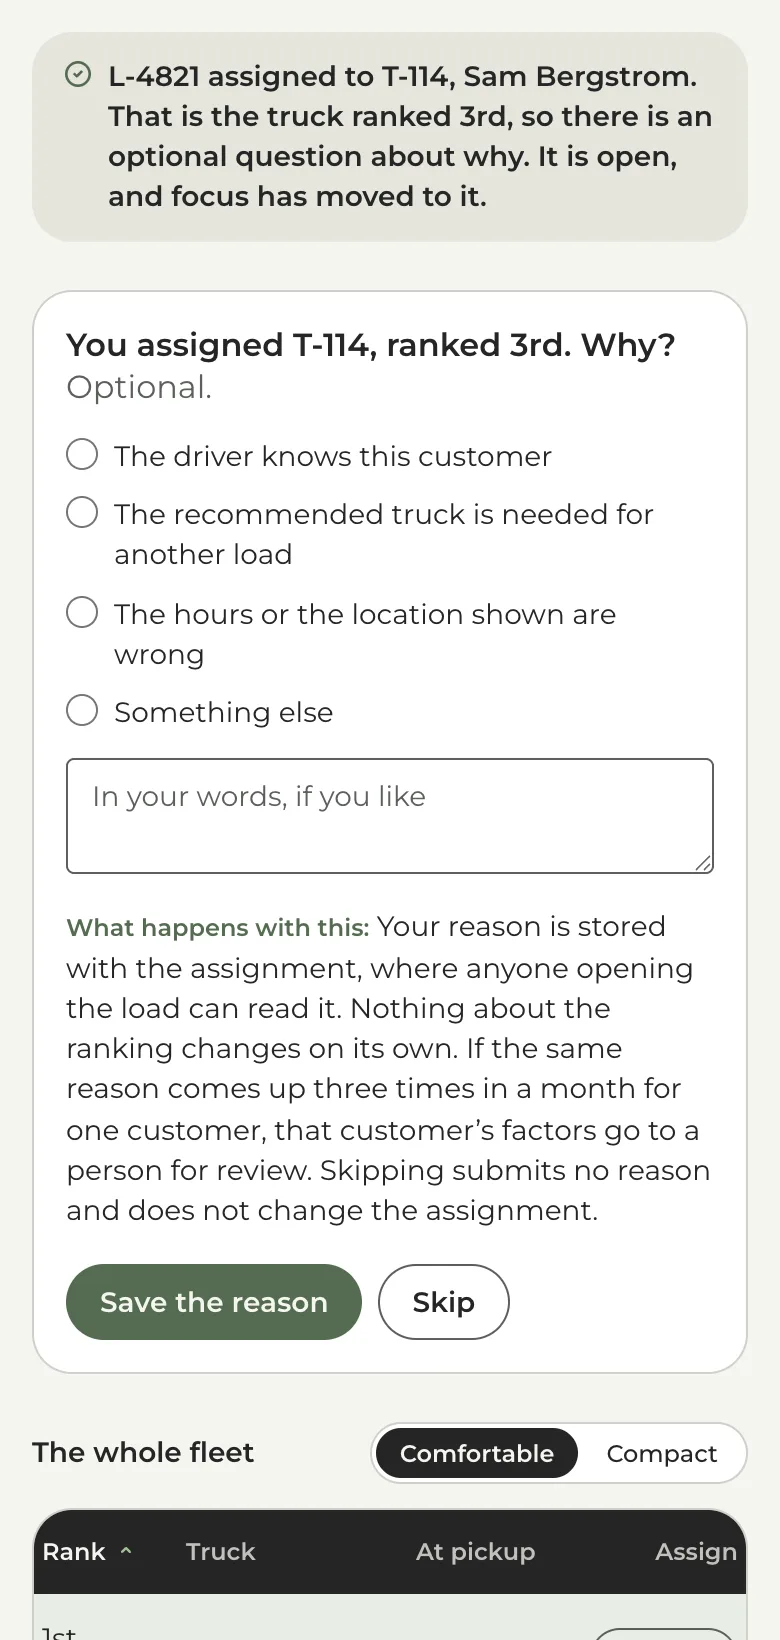
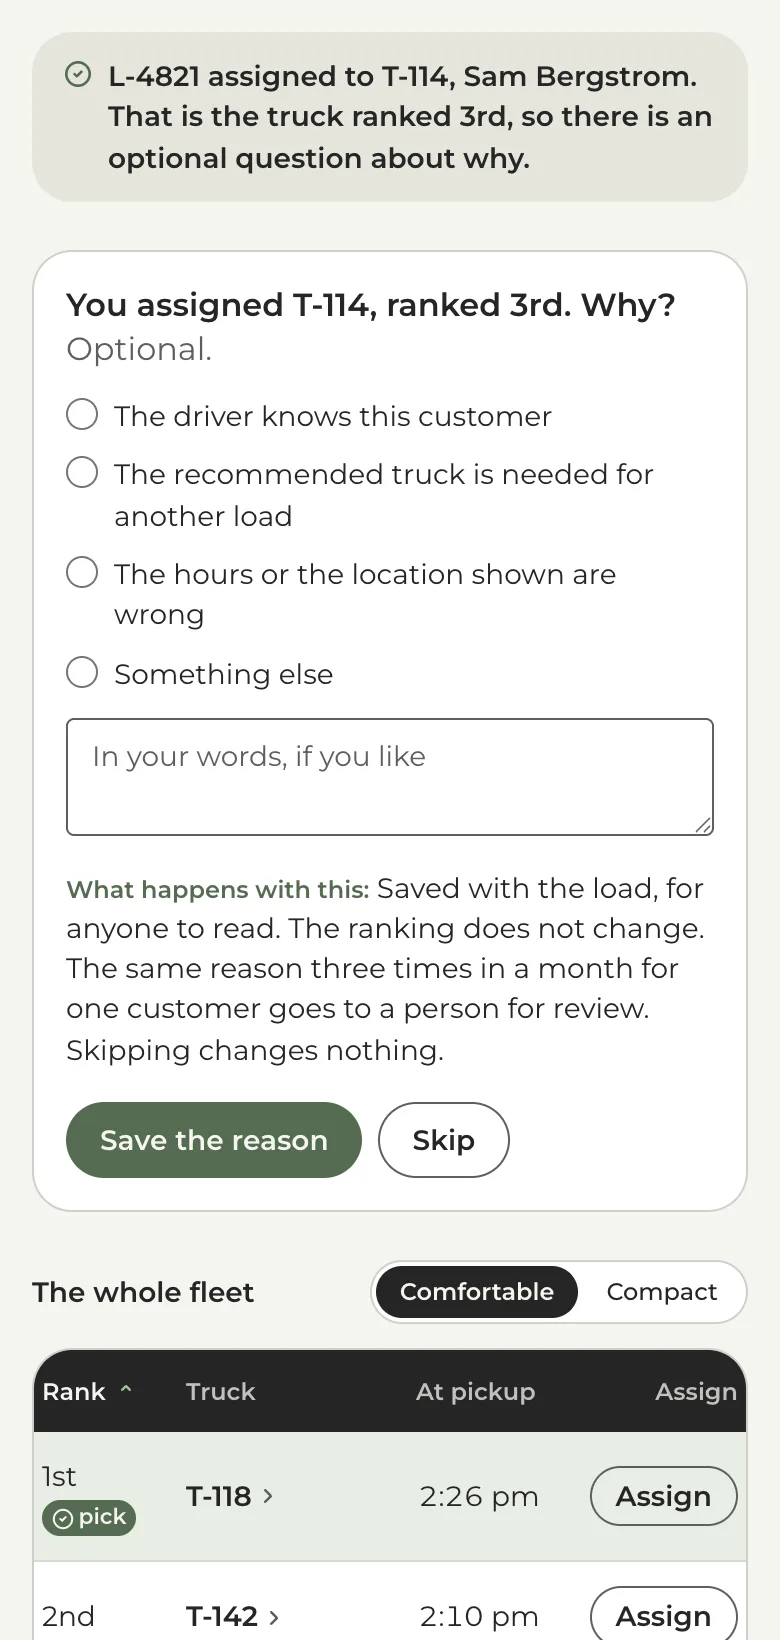
The override prompt says what happens to the answer in four short sentences
The "What happens with this" paragraph on the cockpit's override card
ran to fifty-seven words and read as a block. It now says the same
four things in thirty-five: saved with the load, the ranking does not
change, the same reason three times in a month goes to a person,
skipping changes nothing.

The three captures that show the card are re-run from the prototype:
override-after (decision 03's second frame, now 82px shorter, so its
height attribute moves with it), slide-override and slide-override-sm.
Cache-busters bumped on all three.

diff --git a/prototype/dispatch-cockpit.html b/prototype/dispatch-cockpit.html
@@ -398,8 +398,8 @@
             <figure class="ck-slide-fig">
               <div class="ck-slide-screen">
                 <picture>
-                  <source media="(max-width: 47.99rem)" srcset="../img/cockpit/slide-override-sm.webp?v=4" width="780" height="1640" />
-                  <img src="../img/cockpit/slide-override.webp?v=5" width="1360" height="1020" loading="lazy" decoding="async" alt="A card headed &ldquo;You assigned T-114, ranked 3rd. Why? Optional.&rdquo; with four reasons to choose from, a free-text box reading &ldquo;In your words, if you like&rdquo;, a paragraph headed &ldquo;What happens with this&rdquo;, and two buttons: Save the reason, and Skip." />
+                  <source media="(max-width: 47.99rem)" srcset="../img/cockpit/slide-override-sm.webp?v=5" width="780" height="1640" />
+                  <img src="../img/cockpit/slide-override.webp?v=6" width="1360" height="1020" loading="lazy" decoding="async" alt="A card headed &ldquo;You assigned T-114, ranked 3rd. Why? Optional.&rdquo; with four reasons to choose from, a free-text box reading &ldquo;In your words, if you like&rdquo;, a paragraph headed &ldquo;What happens with this&rdquo;, and two buttons: Save the reason, and Skip." />
                 </picture>
               </div>
               <figcaption>T&#8209;114 was ranked third. Assigning it took one press and nothing argued back. The question comes afterwards, is optional, and Skip is as easy as Save.</figcaption>
@@ -678,7 +678,7 @@
                 </li>
                 <li>
                   <div class="ckw-scroll">
-                    <img src="../img/cockpit/override-after.webp?v=4" width="2576" height="1128" alt="After an override: a status line reading that load L-4821 is assigned to T-114, the truck ranked 3rd, and an optional question below it offering three reasons, a free-text box, a note about what happens with the answer, and Save the reason and Skip buttons." />
+                    <img src="../img/cockpit/override-after.webp?v=5" width="2576" height="1046" alt="After an override: a status line reading that load L-4821 is assigned to T-114, the truck ranked 3rd, and an optional question below it offering three reasons, a free-text box, a note about what happens with the answer, and Save the reason and Skip buttons." />
                   </div>
                   <p class="ckw-frame-cap"><span>Then</span> The question, afterwards and optional. Undo takes the place of Assign on the row, so the choice is reversible while it is being explained.</p>
                 </li>

diff --git a/index.html b/index.html
@@ -482,7 +482,7 @@
                morph into. -->
           <a class="case-card case-card--prototype reveal" href="prototype/dispatch-cockpit.html" aria-label="Open the prototype: A dispatch cockpit that shows its work">
             <div class="case-thumb">
-              <img decoding="async" loading="lazy" src="img/cockpit/slide-override.webp?v=5" alt="The cockpit after the dispatcher overrides it: a card headed &ldquo;You assigned T-114, ranked 3rd. Why? Optional.&rdquo; with four reasons to choose from, a free-text box reading &ldquo;In your words, if you like&rdquo;, a paragraph headed &ldquo;What happens with this&rdquo;, and two buttons: Save the reason, and Skip." width="1360" height="1020"/>
+              <img decoding="async" loading="lazy" src="img/cockpit/slide-override.webp?v=6" alt="The cockpit after the dispatcher overrides it: a card headed &ldquo;You assigned T-114, ranked 3rd. Why? Optional.&rdquo; with four reasons to choose from, a free-text box reading &ldquo;In your words, if you like&rdquo;, a paragraph headed &ldquo;What happens with this&rdquo;, and two buttons: Save the reason, and Skip." width="1360" height="1020"/>
             </div>
             <div class="case-card-body">
               <h3>A dispatch cockpit that shows its work</h3>

diff --git a/prototype/dispatch-cockpit.js b/prototype/dispatch-cockpit.js
@@ -183,7 +183,7 @@
       'The recommended truck is needed for another load',
       'The hours or the location shown are wrong',
     ],
-    whatHappens: 'Your reason is stored with the assignment, where anyone opening the load can read it. Nothing about the ranking changes on its own. If the same reason comes up three times in a month for one customer, that customer’s factors go to a person for review. Skipping submits no reason and does not change the assignment.',
+    whatHappens: 'Saved with the load, for anyone to read. The ranking does not change. The same reason three times in a month for one customer goes to a person for review. Skipping changes nothing.',
   };
 
   /* =========================================================================
